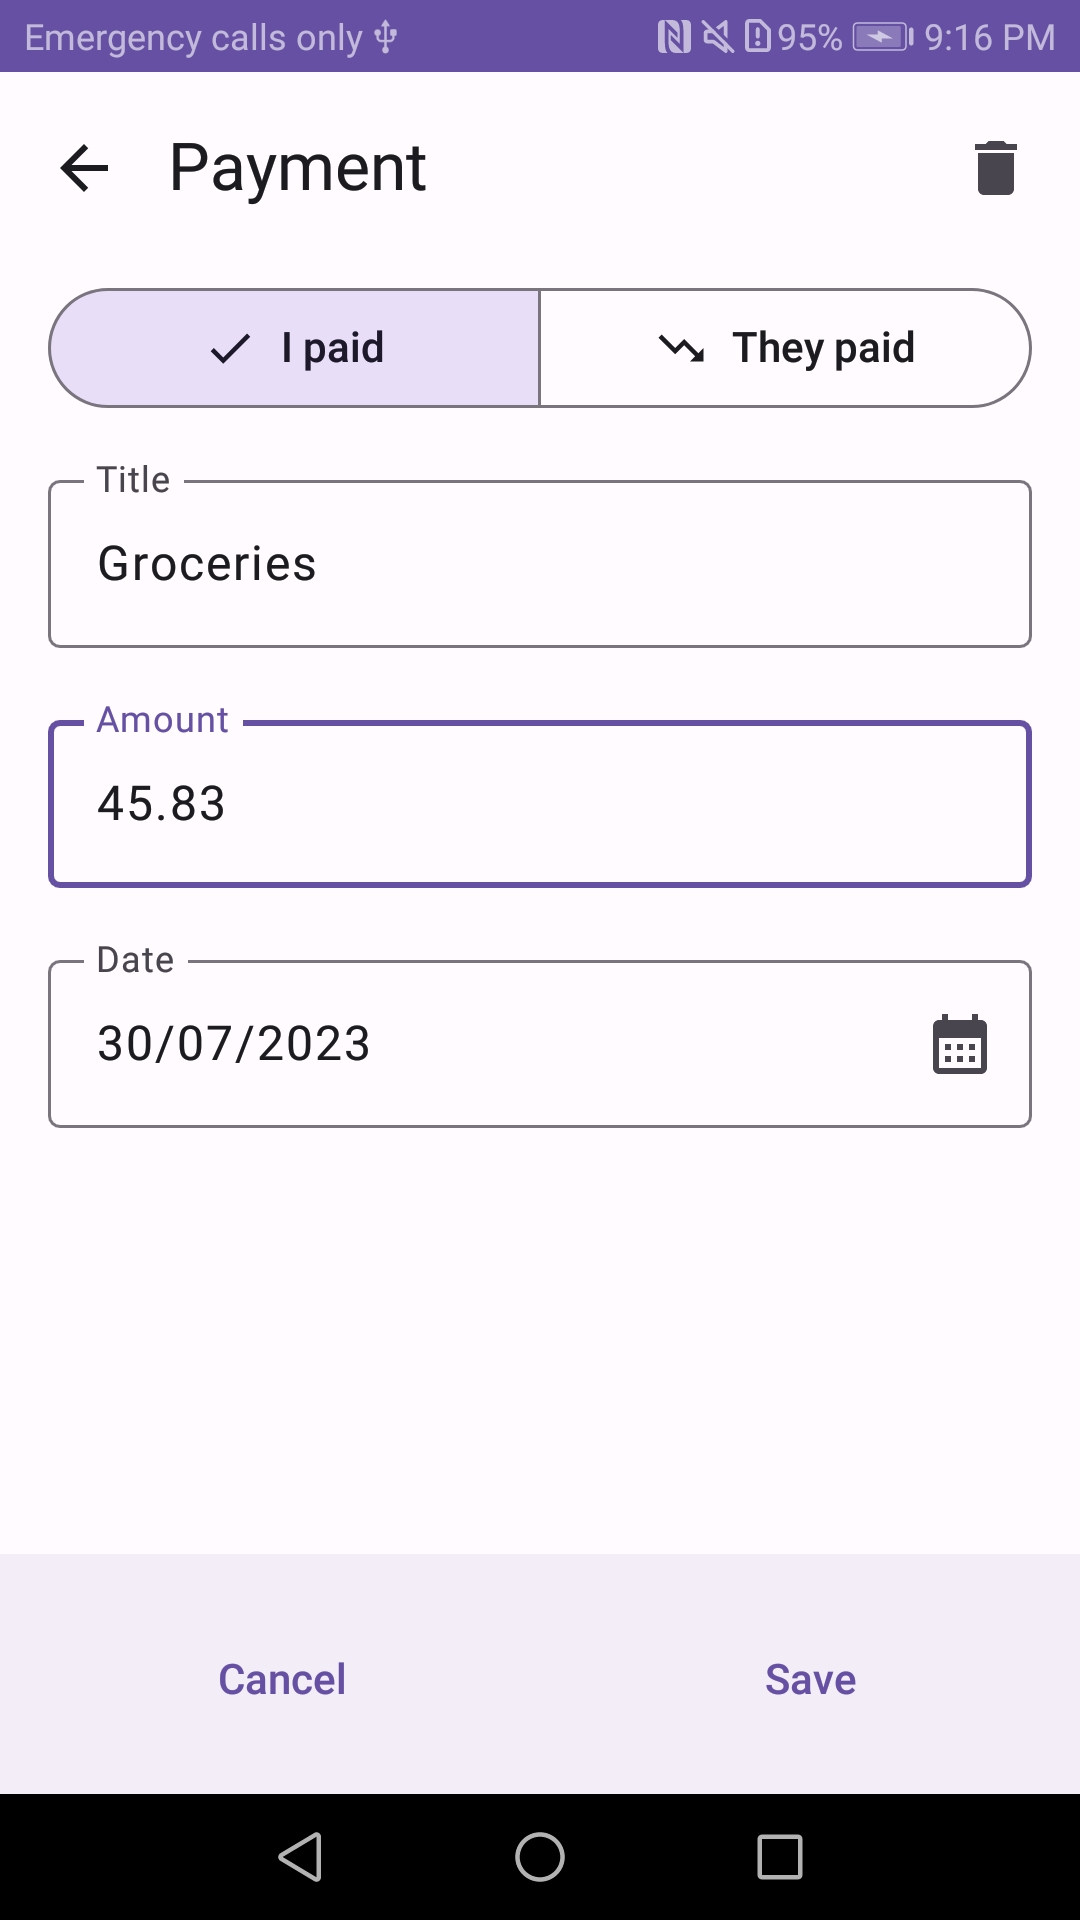
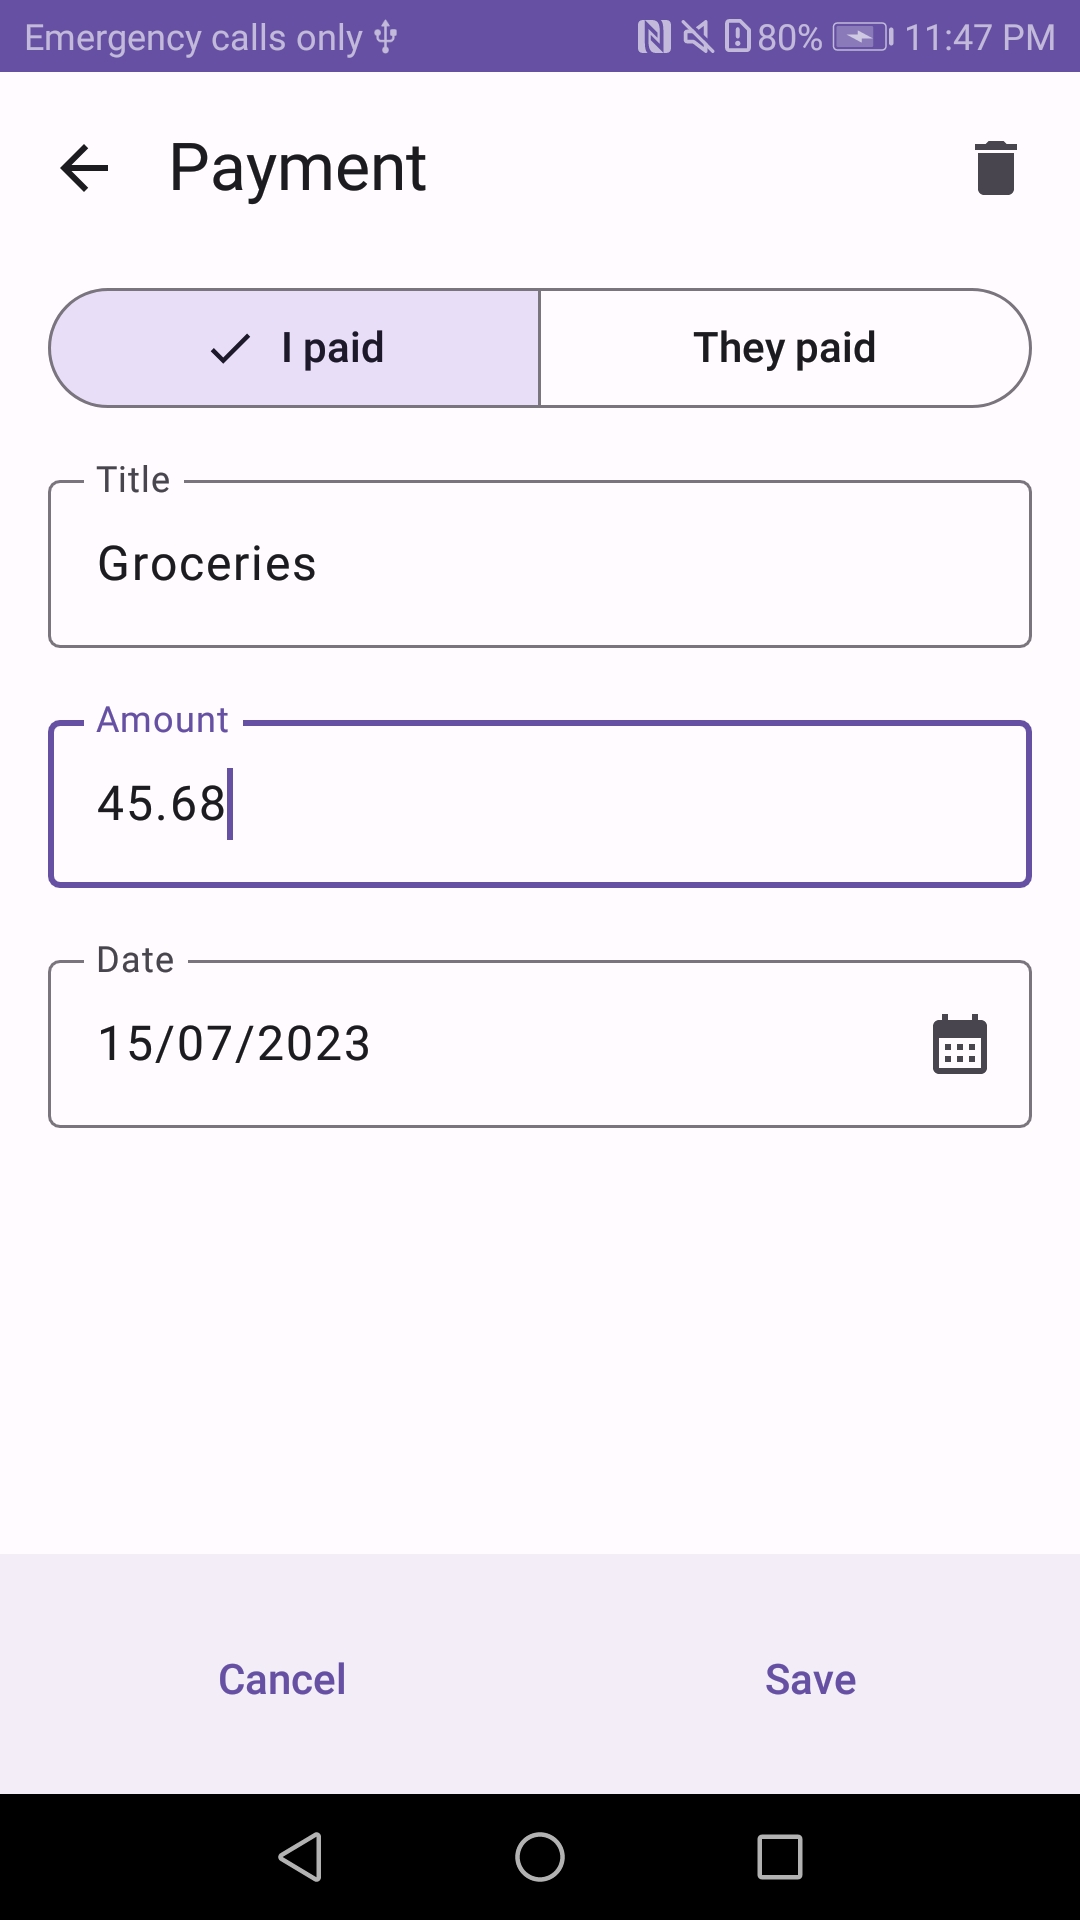
Finished sorting, update README.md

diff --git a/app/src/main/java/com/example/paymeback/ui/screens/HomeScreen.kt b/app/src/main/java/com/example/paymeback/ui/screens/HomeScreen.kt
@@ -1,12 +1,14 @@
 package com.example.paymeback.ui.screens
 
 import androidx.compose.foundation.clickable
+import androidx.compose.foundation.layout.Arrangement
 import androidx.compose.foundation.layout.Box
 import androidx.compose.foundation.layout.PaddingValues
+import androidx.compose.foundation.layout.Row
 import androidx.compose.foundation.layout.fillMaxSize
 import androidx.compose.foundation.layout.fillMaxWidth
-import androidx.compose.foundation.layout.height
 import androidx.compose.foundation.layout.padding
+import androidx.compose.foundation.layout.size
 import androidx.compose.foundation.layout.wrapContentSize
 import androidx.compose.foundation.lazy.LazyColumn
 import androidx.compose.foundation.lazy.items
@@ -16,8 +18,6 @@ import androidx.compose.material.icons.filled.Done
 import androidx.compose.material.icons.filled.Sort
 import androidx.compose.material.icons.filled.TrendingDown
 import androidx.compose.material.icons.filled.TrendingUp
-import androidx.compose.material.icons.outlined.ArrowDownward
-import androidx.compose.material.icons.outlined.ArrowUpward
 import androidx.compose.material3.DropdownMenu
 import androidx.compose.material3.DropdownMenuItem
 import androidx.compose.material3.ElevatedCard
@@ -41,6 +41,7 @@ import androidx.compose.ui.Alignment
 import androidx.compose.ui.Modifier
 import androidx.compose.ui.input.nestedscroll.nestedScroll
 import androidx.compose.ui.res.stringResource
+import androidx.compose.ui.unit.dp
 import com.example.paymeback.PayMeBackTopAppBar
 import com.example.paymeback.R
 import com.example.paymeback.data.Record
@@ -125,88 +126,55 @@ fun HomeBody(
                         .fillMaxSize()
                         .wrapContentSize(Alignment.TopStart)
                 ) {
-                    IconButton(onClick = { expanded = true }) {
+                    Row(
+                        modifier = Modifier.fillMaxWidth(),
+                        horizontalArrangement = Arrangement.Start,
+                        verticalAlignment = Alignment.CenterVertically
+                    ) {
+                        IconButton(onClick = { expanded = true }) {
+                            Icon(
+                                Icons.Default.Sort,
+                                contentDescription = stringResource(R.string.sort_text)
+                            )
+                        }
+                        Text(
+                            modifier = Modifier.clickable(onClick = { expanded = true }),
+                            text = stringResource(SortOption.values()[sortedBy].label).plus(" "),
+                            style = MaterialTheme.typography.labelLarge
+                        )
                         Icon(
-                            Icons.Default.Sort,
-                            contentDescription = stringResource(R.string.sort_text)
+                            modifier = Modifier
+                                .clickable(onClick = { expanded = true })
+                                .size(MaterialTheme.typography.labelLarge.fontSize.value.dp),
+                            imageVector = SortOption.values()[sortedBy].icon,
+                            contentDescription = null
                         )
                     }
                     DropdownMenu(
                         expanded = expanded,
                         onDismissRequest = { expanded = false }
                     ) {
-                        DropdownMenuItem(
-                            text = { Text(stringResource(R.string.last_modified_text)) },
-                            onClick = {
-                                onSortClick(SortOption.LAST_MODIFIED_DESCENDING.value)
-                                expanded = false
-                            },
-                            leadingIcon = {
-                                Icon(
-                                    Icons.Outlined.ArrowDownward,
-                                    contentDescription = null
-                                )
-                            })
-                        DropdownMenuItem(
-                            text = { Text(stringResource(R.string.last_modified_text)) },
-                            onClick = {
-                                onSortClick(SortOption.LAST_MODIFIED_ASCENDING.value)
-                                expanded = false
-                            },
-                            leadingIcon = {
-                                Icon(
-                                    Icons.Outlined.ArrowUpward,
-                                    contentDescription = null
-                                )
-                            })
-                        DropdownMenuItem(
-                            text = { Text(stringResource(R.string.balance_text)) },
-                            onClick = {
-                                onSortClick(SortOption.BALANCE_DESCENDING.value)
-                                expanded = false
-                            },
-                            leadingIcon = {
-                                Icon(
-                                    Icons.Outlined.ArrowDownward,
-                                    contentDescription = null
-                                )
-                            })
-                        DropdownMenuItem(
-                            text = { Text(stringResource(R.string.balance_text)) },
-                            onClick = {
-                                onSortClick(SortOption.BALANCE_ASCENDING.value)
-                                expanded = false
-                            },
-                            leadingIcon = {
-                                Icon(
-                                    Icons.Outlined.ArrowUpward,
-                                    contentDescription = null
-                                )
-                            })
-                        DropdownMenuItem(
-                            text = { Text(stringResource(R.string.person_name_text)) },
-                            onClick = {
-                                onSortClick(SortOption.NAME_DESCENDING.value)
-                                expanded = false
-                            },
-                            leadingIcon = {
-                                Icon(
-                                    Icons.Outlined.ArrowDownward,
-                                    contentDescription = null
-                                )
-                            })
-                        DropdownMenuItem(
-                            text = { Text(stringResource(R.string.person_name_text)) },
-                            onClick = {
-                                onSortClick(SortOption.NAME_ASCENDING.value)
-                                expanded = false
-                            },
-                            leadingIcon = {
-                                Icon(
-                                    Icons.Outlined.ArrowUpward,
-                                    contentDescription = null
-                                )
-                            })
+                        for (sortOption in SortOption.values()) {
+                            DropdownMenuItem(
+                                text = {
+                                    Text(
+                                        text = stringResource(sortOption.label),
+                                        style = MaterialTheme.typography.labelLarge
+                                    )
+                                },
+                                onClick = {
+                                    onSortClick(sortOption.value)
+                                    expanded = false
+                                },
+                                leadingIcon = {
+                                    Icon(
+                                        sortOption.icon,
+                                        contentDescription = null,
+                                        modifier = Modifier.size(MaterialTheme.typography.labelLarge.fontSize.value.dp)
+                                    )
+                                }
+                            )
+                        }
                     }
                 }
             }
@@ -216,7 +184,7 @@ fun HomeBody(
                 SortOption.BALANCE_DESCENDING.value -> recordList.sortedByDescending { it.balance }
                 SortOption.BALANCE_ASCENDING.value -> recordList.sortedBy { it.balance }
                 SortOption.NAME_DESCENDING.value -> recordList.sortedByDescending { it.person.lowercase() }
-                SortOption.BALANCE_ASCENDING.value -> recordList.sortedBy { it.person.lowercase() }
+                SortOption.NAME_ASCENDING.value -> recordList.sortedBy { it.person.lowercase() }
                 else -> recordList
             }) { record ->
                 RecordCard(
@@ -264,7 +232,8 @@ fun RecordCard(
             supportingContent = {
                 Text(
                     text = stringResource(R.string.last_modified_text).plus(": ").plus(
-                        dateFormatter.format(record.modifiedAt)),
+                        dateFormatter.format(record.modifiedAt)
+                    ),
                     style = MaterialTheme.typography.labelMedium
                 )
             },

diff --git a/app/src/main/java/com/example/paymeback/ui/screens/PaymentEditScreen.kt b/app/src/main/java/com/example/paymeback/ui/screens/PaymentEditScreen.kt
@@ -5,12 +5,9 @@ import androidx.compose.foundation.layout.Column
 import androidx.compose.foundation.layout.fillMaxSize
 import androidx.compose.foundation.layout.fillMaxWidth
 import androidx.compose.foundation.layout.padding
-import androidx.compose.foundation.layout.size
 import androidx.compose.foundation.text.KeyboardOptions
 import androidx.compose.material.icons.Icons
 import androidx.compose.material.icons.filled.CalendarMonth
-import androidx.compose.material.icons.filled.TrendingDown
-import androidx.compose.material.icons.filled.TrendingUp
 import androidx.compose.material3.DatePicker
 import androidx.compose.material3.DatePickerDialog
 import androidx.compose.material3.ExperimentalMaterial3Api
@@ -109,13 +106,7 @@ fun EditPaymentScreen(
                 SegmentedButton(
                     shape = SegmentedButtonDefaults.shape(position = 0, count = 2),
                     icon = {
-                        SegmentedButtonDefaults.SegmentedButtonIcon(active = paymentUiState.isMyPayment) {
-                            Icon(
-                                imageVector = Icons.Filled.TrendingUp,
-                                contentDescription = null,
-                                modifier = Modifier.size(SegmentedButtonDefaults.IconSize)
-                            )
-                        }
+                        SegmentedButtonDefaults.SegmentedButtonIcon(active = paymentUiState.isMyPayment)
                     },
                     onCheckedChange = {
                         viewModel.updateUiState(paymentUiState.copy(isMyPayment = true))
@@ -127,13 +118,7 @@ fun EditPaymentScreen(
                 SegmentedButton(
                     shape = SegmentedButtonDefaults.shape(position = 1, count = 2),
                     icon = {
-                        SegmentedButtonDefaults.SegmentedButtonIcon(active = !paymentUiState.isMyPayment) {
-                            Icon(
-                                imageVector = Icons.Filled.TrendingDown,
-                                contentDescription = null,
-                                modifier = Modifier.size(SegmentedButtonDefaults.IconSize)
-                            )
-                        }
+                        SegmentedButtonDefaults.SegmentedButtonIcon(active = !paymentUiState.isMyPayment)
                     },
                     onCheckedChange = {
                         viewModel.updateUiState(paymentUiState.copy(isMyPayment = false))

diff --git a/app/src/main/java/com/example/paymeback/ui/screens/HomeViewModel.kt b/app/src/main/java/com/example/paymeback/ui/screens/HomeViewModel.kt
@@ -1,8 +1,14 @@
 package com.example.paymeback.ui.screens
 
 import android.util.Log
+import androidx.annotation.StringRes
+import androidx.compose.material.icons.Icons
+import androidx.compose.material.icons.filled.ArrowDownward
+import androidx.compose.material.icons.filled.ArrowUpward
+import androidx.compose.ui.graphics.vector.ImageVector
 import androidx.lifecycle.ViewModel
 import androidx.lifecycle.viewModelScope
+import com.example.paymeback.R
 import com.example.paymeback.data.OfflineRecordsRepository
 import com.example.paymeback.data.Record
 import com.example.paymeback.data.UserPreferencesRepository
@@ -14,13 +20,17 @@ import kotlinx.coroutines.flow.stateIn
 import kotlinx.coroutines.launch
 import javax.inject.Inject
 
-enum class SortOption(val value: Int) {
-    LAST_MODIFIED_DESCENDING(0),
-    LAST_MODIFIED_ASCENDING(1),
-    BALANCE_DESCENDING(2),
-    BALANCE_ASCENDING(3),
-    NAME_DESCENDING(4),
-    NAME_ASCENDING(5)
+enum class SortOption(
+    val value: Int,
+    @StringRes val label: Int,
+    val icon: ImageVector
+) {
+    LAST_MODIFIED_DESCENDING(0, R.string.last_modified_text, Icons.Filled.ArrowDownward),
+    LAST_MODIFIED_ASCENDING(1, R.string.last_modified_text, Icons.Filled.ArrowUpward),
+    BALANCE_DESCENDING(2, R.string.balance_text, Icons.Filled.ArrowDownward),
+    BALANCE_ASCENDING(3, R.string.balance_text, Icons.Filled.ArrowUpward),
+    NAME_DESCENDING(4, R.string.person_name_text, Icons.Filled.ArrowDownward),
+    NAME_ASCENDING(5, R.string.person_name_text, Icons.Filled.ArrowUpward)
 }
 
 @HiltViewModel

diff --git a/README.md b/README.md
@@ -14,17 +14,18 @@ PayMeBack is an Android app built in Kotlin that helps you track your expenses w
 
 - User-friendly and intuitive UI powered by Jetpack Compose.
 - Dependency injection handled by Hilt for clean and modular code.
-- Local data storage using Room database for efficient management of records. Utilization of relations, triggers and migrations.
+- Local data storage using Room database for efficient management of records. Utilization of relations, triggers and migrations. 
 - Keep track of expenses with multiple people and manage individual records.
+- Sort your records using parameters stored in DataStore.
 - Add payments to records with details of payer, title, amount, and date.
 - Real-time balance calculation for each person to track outstanding debts easily.
 
 ## Screenshots
 
-| Home Screen                                | Record                                       | Payment                                           |
-|--------------------------------------------|----------------------------------------------|---------------------------------------------------|
-| ![Home Screen](screenshots/home.jpg)       | ![Add Record](screenshots/edit_record.jpg)   | ![Record Details](screenshots/edit_payment.jpg)   |                                   |
-| ![Home Screen](screenshots/home_empty.jpg) | ![Add Record](screenshots/add_person_2.jpg)  | ![Record Details](screenshots/delete_payment.jpg) |
+| Home Screen                               | Record                                       | Payment                                           |
+|-------------------------------------------|----------------------------------------------|---------------------------------------------------|
+| ![Home Screen](screenshots/home.jpg)      | ![Add Record](screenshots/edit_record.jpg)   | ![Record Details](screenshots/edit_payment.jpg)   |                                   |
+| ![Home Screen](screenshots/home_sort.jpg) | ![Add Record](screenshots/add_person_2.jpg)  | ![Record Details](screenshots/delete_payment.jpg) |
 ## Usage
 
 1. Launch the PayMeBack app on your Android device or emulator.
@@ -34,9 +35,11 @@ PayMeBack is an Android app built in Kotlin that helps you track your expenses w
 5. In the record details screen, you can add payments by clicking the floating action button.
 6. Enter the title, amount, and date of the payment, and select the person who made the payment.
 7. The app will automatically update the balance between you and the selected person based on the new payment.
+8. In the Home screen you can sort records by person's name, modification time or balance, descending or ascending.
 
 ## Libraries Used
 
 - Jetpack Compose: Modern Android UI toolkit for building native UIs.
 - Hilt: Dependency injection library for Android.
 - Room: SQLite database library for offline data storage.
+- DataStore: Android Jetpack library for asynchronous key-value pairs data storage.
